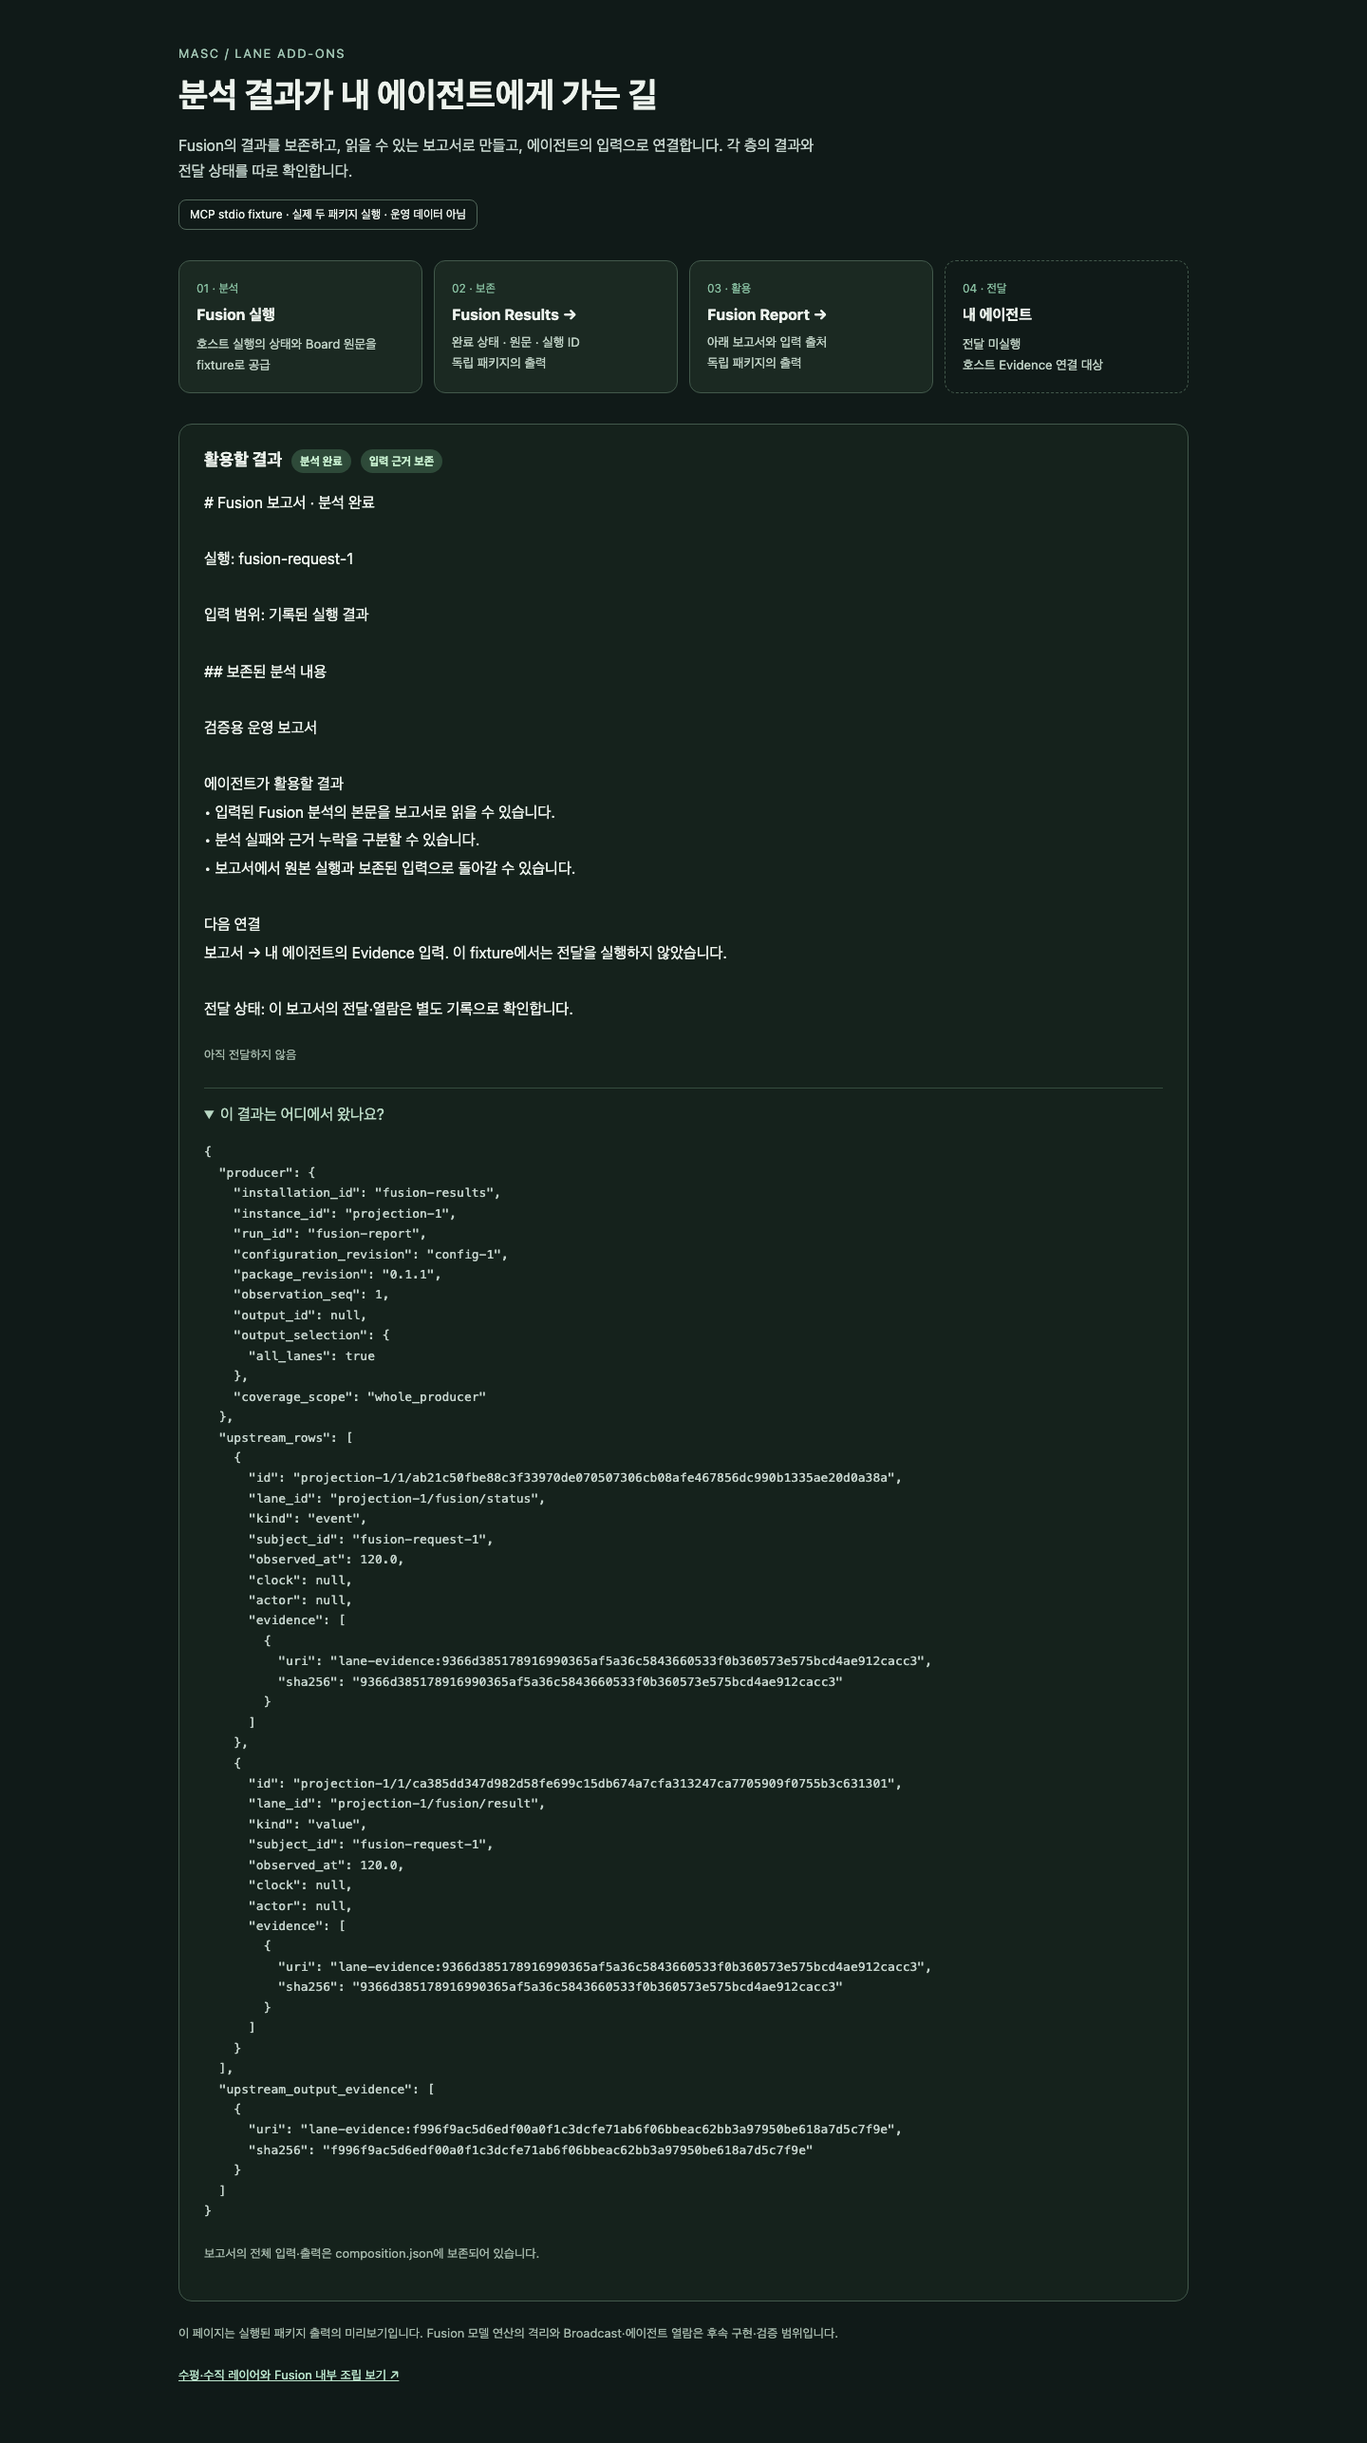
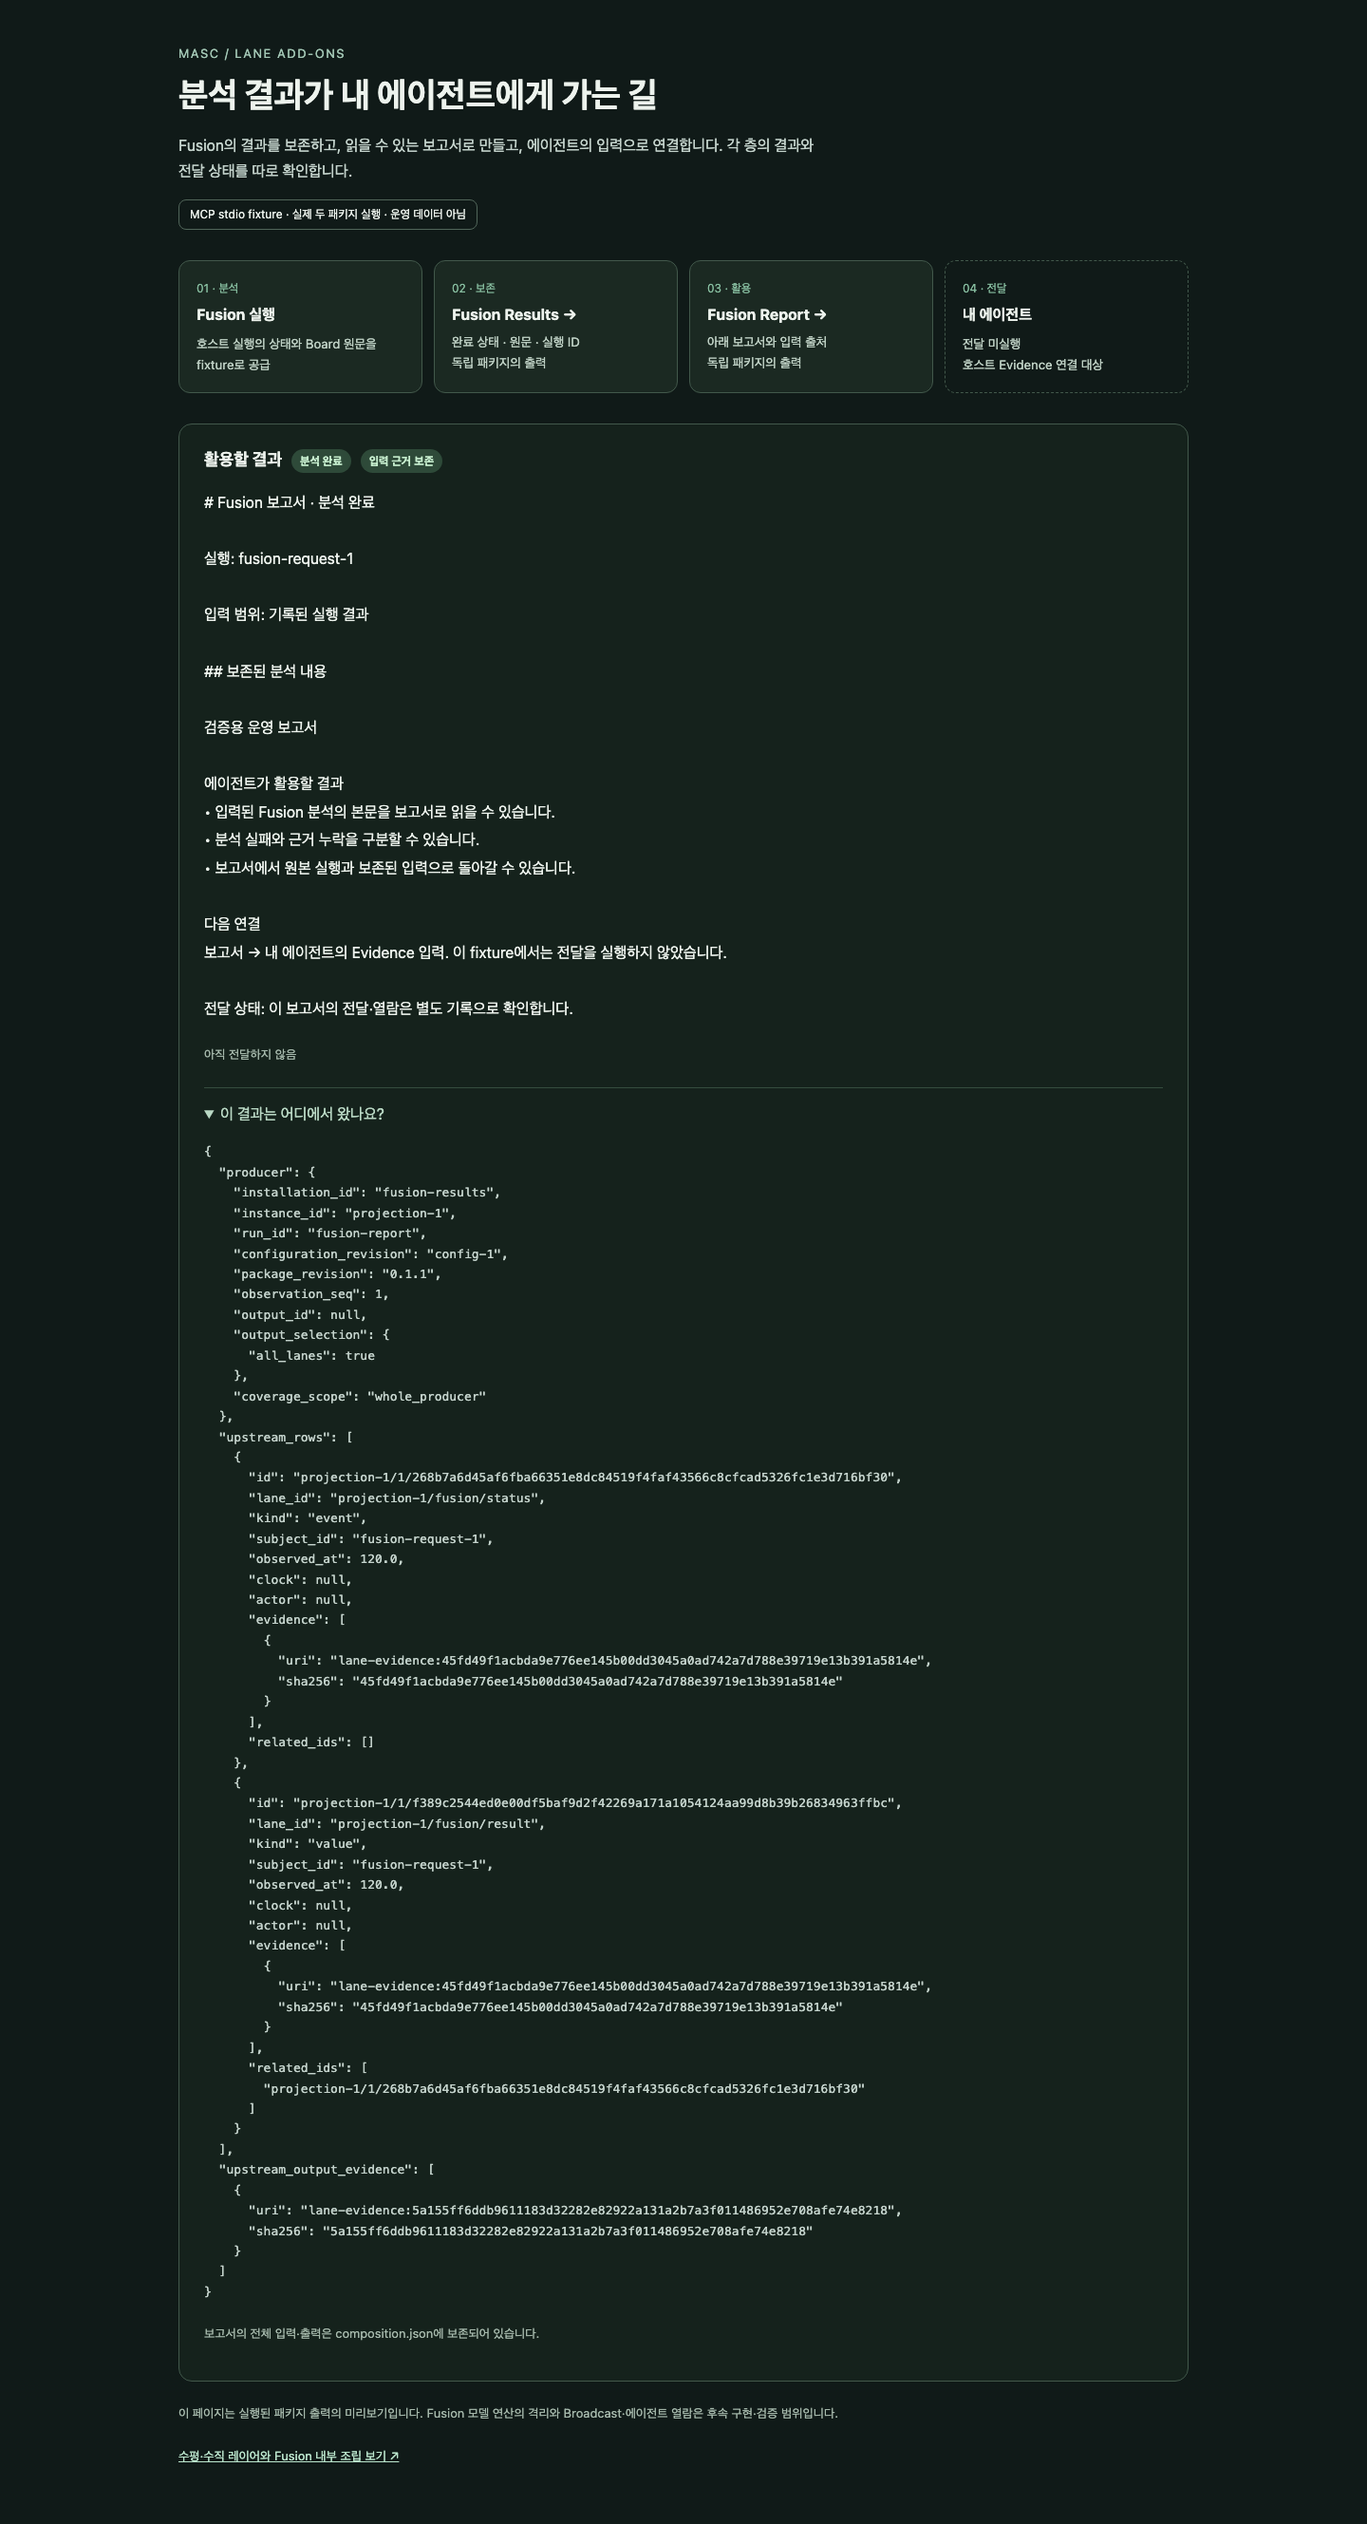
fix(fusion): validate report relations and regenerate preview evidence

diff --git a/docs/design/fusion-report-preview.html b/docs/design/fusion-report-preview.html
@@ -61,7 +61,7 @@ details{margin-top:24px;border-top:1px solid #354c3e;padding-top:18px}summary{cu
   },
   &quot;upstream_rows&quot;: [
     {
-      &quot;id&quot;: &quot;projection-1/1/ab21c50fbe88c3f33970de070507306cb08afe467856dc990b1335ae20d0a38a&quot;,
+      &quot;id&quot;: &quot;projection-1/1/268b7a6d45af6fba66351e8dc84519f4faf43566c8cfcad5326fc1e3d716bf30&quot;,
       &quot;lane_id&quot;: &quot;projection-1/fusion/status&quot;,
       &quot;kind&quot;: &quot;event&quot;,
       &quot;subject_id&quot;: &quot;fusion-request-1&quot;,
@@ -70,13 +70,14 @@ details{margin-top:24px;border-top:1px solid #354c3e;padding-top:18px}summary{cu
       &quot;actor&quot;: null,
       &quot;evidence&quot;: [
         {
-          &quot;uri&quot;: &quot;lane-evidence:9366d385178916990365af5a36c5843660533f0b360573e575bcd4ae912cacc3&quot;,
-          &quot;sha256&quot;: &quot;9366d385178916990365af5a36c5843660533f0b360573e575bcd4ae912cacc3&quot;
+          &quot;uri&quot;: &quot;lane-evidence:45fd49f1acbda9e776ee145b00dd3045a0ad742a7d788e39719e13b391a5814e&quot;,
+          &quot;sha256&quot;: &quot;45fd49f1acbda9e776ee145b00dd3045a0ad742a7d788e39719e13b391a5814e&quot;
         }
-      ]
+      ],
+      &quot;related_ids&quot;: []
     },
     {
-      &quot;id&quot;: &quot;projection-1/1/ca385dd347d982d58fe699c15db674a7cfa313247ca7705909f0755b3c631301&quot;,
+      &quot;id&quot;: &quot;projection-1/1/f389c2544ed0e00df5baf9d2f42269a171a1054124aa99d8b39b26834963ffbc&quot;,
       &quot;lane_id&quot;: &quot;projection-1/fusion/result&quot;,
       &quot;kind&quot;: &quot;value&quot;,
       &quot;subject_id&quot;: &quot;fusion-request-1&quot;,
@@ -85,16 +86,19 @@ details{margin-top:24px;border-top:1px solid #354c3e;padding-top:18px}summary{cu
       &quot;actor&quot;: null,
       &quot;evidence&quot;: [
         {
-          &quot;uri&quot;: &quot;lane-evidence:9366d385178916990365af5a36c5843660533f0b360573e575bcd4ae912cacc3&quot;,
-          &quot;sha256&quot;: &quot;9366d385178916990365af5a36c5843660533f0b360573e575bcd4ae912cacc3&quot;
+          &quot;uri&quot;: &quot;lane-evidence:45fd49f1acbda9e776ee145b00dd3045a0ad742a7d788e39719e13b391a5814e&quot;,
+          &quot;sha256&quot;: &quot;45fd49f1acbda9e776ee145b00dd3045a0ad742a7d788e39719e13b391a5814e&quot;
         }
+      ],
+      &quot;related_ids&quot;: [
+        &quot;projection-1/1/268b7a6d45af6fba66351e8dc84519f4faf43566c8cfcad5326fc1e3d716bf30&quot;
       ]
     }
   ],
   &quot;upstream_output_evidence&quot;: [
     {
-      &quot;uri&quot;: &quot;lane-evidence:f996f9ac5d6edf00a0f1c3dcfe71ab6f06bbeac62bb3a97950be618a7d5c7f9e&quot;,
-      &quot;sha256&quot;: &quot;f996f9ac5d6edf00a0f1c3dcfe71ab6f06bbeac62bb3a97950be618a7d5c7f9e&quot;
+      &quot;uri&quot;: &quot;lane-evidence:5a155ff6ddb9611183d32282e82922a131a2b7a3f011486952e708afe74e8218&quot;,
+      &quot;sha256&quot;: &quot;5a155ff6ddb9611183d32282e82922a131a2b7a3f011486952e708afe74e8218&quot;
     }
   ]
 }</pre><p class="note">보고서의 전체 입력·출력은 composition.json에 보존되어 있습니다.</p></details></section>

diff --git a/scripts/fusion-report-preview-browser.py b/scripts/fusion-report-preview-browser.py
@@ -1,0 +1,53 @@
+"""Render the regenerated stdio fixture; requires Playwright and Chromium."""
+import hashlib
+import json
+from pathlib import Path
+
+from playwright.sync_api import sync_playwright
+
+
+def sha256(path):
+    return hashlib.sha256(path.read_bytes()).hexdigest()
+
+
+repo = Path(__file__).resolve().parents[1]
+directory = repo / "docs/evidence/fusion-report-20260930"
+composition = directory / "composition.json"
+preview = repo / "docs/design/fusion-report-preview.html"
+capture = json.loads(composition.read_text())
+report = next(row for row in capture["report_output"]["rows"] if row["lane_id"] == "fusion/report")
+context = next(row for row in capture["report_output"]["rows"] if row["id"] in report["related_ids"])
+lineage = {"producer": context["fields"]["producer"],
+           "upstream_rows": context["fields"]["upstream_rows"],
+           "upstream_output_evidence": context["evidence"]}
+checks = []
+with sync_playwright() as playwright:
+    browser = playwright.chromium.launch(headless=True)
+    try:
+        for name, width, height, filename in (
+                ("desktop", 1440, 1100, "preview.png"),
+                ("mobile", 390, 844, "preview-mobile.png")):
+            page = browser.new_page(viewport={"width": width, "height": height}, device_scale_factor=1)
+            page.goto(preview.as_uri())
+            body_matches = page.locator("#report-body").text_content() == report["fields"]["body"]
+            delivery_matches = page.locator("#delivery-state").text_content() == report["fields"]["delivery_label"]
+            page.locator("details summary").click()
+            expanded = page.locator("details").evaluate("element => element.open")
+            lineage_matches = json.loads(page.locator("#report-lineage").text_content()) == lineage
+            overflow = page.evaluate("document.documentElement.scrollWidth > window.innerWidth")
+            if not body_matches or not delivery_matches or not expanded or not lineage_matches or overflow:
+                raise RuntimeError(f"{name} preview does not match its current worker output")
+            screenshot = directory / filename
+            page.screenshot(path=str(screenshot), full_page=True)
+            page.close()
+            checks.append({"viewport": name, "width": width, "height": height,
+                           "horizontal_overflow": overflow, "lineage_expanded": expanded,
+                           "lineage_matches_worker": lineage_matches,
+                           "body_matches_worker": body_matches, "delivery_matches_worker": delivery_matches,
+                           "screenshot": filename, "sha256": sha256(screenshot)})
+    finally:
+        browser.close()
+receipt = {"provenance": "Headless Chromium rendered final MCP stdio fixture output; not native host or production",
+           "preview_sha256": sha256(preview), "composition_sha256": sha256(composition), "checks": checks}
+(directory / "preview-checks.json").write_text(json.dumps(receipt, indent=2) + "\n")
+print("Two browser viewports match regenerated worker body, delivery label and exact lineage")

diff --git a/addons/tests/test_fusion_report.py b/addons/tests/test_fusion_report.py
@@ -70,6 +70,27 @@ def contexts(output):
 
 
 class FusionReport(unittest.TestCase):
+    def test_result_relation_identifies_paired_status(self):
+        captured = upstream(project(detail()))
+        for relation in (None, [], ["projection-1/1/other"], ["one", "two"]):
+            with self.subTest(relation=relation):
+                invalid = copy.deepcopy(captured)
+                invalid["observations"][0]["output"]["rows"][1]["related_ids"] = relation
+                self.assertTrue(call("fusion-report", [invalid])["isError"])
+
+    def test_recognized_rows_require_matching_upstream_coverage(self):
+        captured = upstream(project(detail()))
+        for field in ("source_id", "incarnation"):
+            with self.subTest(field=field):
+                invalid = copy.deepcopy(captured)
+                invalid["observations"][0]["output"]["coverage"][0][field] = "unrelated"
+                self.assertTrue(call("fusion-report", [invalid])["isError"])
+        incomplete = copy.deepcopy(captured)
+        incomplete["observations"][0]["output"]["coverage"][0]["complete"] = False
+        result = call("fusion-report", [incomplete])["structuredContent"]
+        self.assertFalse(result["coverage"][0]["complete"])
+        self.assertTrue(all(not row["fields"]["input_complete"] for row in reports(result)))
+
     def test_report_rejects_conflicting_or_missing_fusion_producer(self):
         original = upstream(project(detail()))
         for change in ("other-owner", "missing-origin-owner", "missing-run-owner"):
@@ -120,7 +141,7 @@ class FusionReport(unittest.TestCase):
         upstream_rows = captured["observations"][0]["output"]["rows"]
         self.assertEqual([r["id"] for r in context["fields"]["upstream_rows"]], [r["id"] for r in upstream_rows])
         self.assertEqual(context["fields"]["upstream_rows"], [{key: r[key] for key in (
-            "id", "lane_id", "kind", "subject_id", "observed_at", "clock", "actor", "evidence")}
+            "id", "lane_id", "kind", "subject_id", "observed_at", "clock", "actor", "evidence", "related_ids")}
             for r in upstream_rows])
         self.assertEqual(context["fields"]["producer"], captured["observations"][0]["producer"])
         self.assertEqual(context["evidence"], captured["observations"][0]["evidence"])
@@ -345,7 +366,9 @@ class FusionReport(unittest.TestCase):
         second["run"]["run_id"] = "fusion-request-2"
         second["evidence"]["post"]["origin"]["fusion_run_id"] = "fusion-request-2"
         combined = copy.deepcopy(first)
-        combined["rows"].extend(project(second)["rows"])
+        second_output = project(second)
+        combined["rows"].extend(second_output["rows"])
+        combined["coverage"].extend(second_output["coverage"])
         report = call("fusion-report", [upstream(combined)])["structuredContent"]
         self.assertEqual([r["subject_id"] for r in reports(report)], [RUN, "fusion-request-2"])
         self.assertEqual(len({r["id"] for r in reports(report)}), 2)

diff --git a/addons/fusion-report/server.py b/addons/fusion-report/server.py
@@ -86,8 +86,13 @@ def row_coordinates(original):
         string(clock.get("domain"), "row.clock.domain")
         string(clock.get("value"), "row.clock.value")
     evidence(original.get("evidence"))
+    related = original.get("related_ids")
+    if not isinstance(related, list):
+        raise InvalidInput("row.related_ids must be an array")
+    for identity in related:
+        string(identity, "row.related_ids entry")
     return {key: original[key] for key in (
-        "id", "lane_id", "kind", "subject_id", "observed_at", "clock", "actor", "evidence")}
+        "id", "lane_id", "kind", "subject_id", "observed_at", "clock", "actor", "evidence", "related_ids")}
 
 
 def reports(source: Source, observation: dict, *, recognized: bool):
@@ -131,6 +136,11 @@ def reports(source: Source, observation: dict, *, recognized: bool):
         string(original.get("id"), "row.id")
         row_coordinates(original)
         fields = object_value(original.get("fields"), "row.fields")
+        source_id = string(fields.get("source_id"), "row.fields.source_id")
+        incarnation = string(fields.get("incarnation"), "row.fields.incarnation")
+        if not any(item["source_id"] == source_id and item["incarnation"] == incarnation
+                   for item in upstream_coverage):
+            raise InvalidInput("Fusion row has no matching upstream source coverage")
         boolean(fields.get("input_complete"), "row.input_complete")
         if lane == "fusion/status":
             run = object_value(fields.get("fusion_run"), "fusion_run")
@@ -141,6 +151,8 @@ def reports(source: Source, observation: dict, *, recognized: bool):
                 string(run.get("failure_code"), "fusion_run.failure_code")
                 string(run.get("error"), "fusion_run.error")
         else:
+            if len(original["related_ids"]) != 1:
+                raise InvalidInput("Fusion result must identify its status row")
             run_id = string(fields.get("fusion_run_id"), "fusion_run_id")
             status = run_state(fields.get("run_status"))
             post = object_value(fields.get("board_post"), "board_post")
@@ -178,6 +190,8 @@ def reports(source: Source, observation: dict, *, recognized: bool):
         post = result_row[0]["fields"]["board_post"] if result_row else None
         if status_row and result_row:
             status_fields = status_row[0]["fields"]
+            if result_row[0]["related_ids"] != [status_row[0]["id"]]:
+                raise InvalidInput("Fusion result relation does not identify its paired status row")
             if (status_fields.get("evidence_status") != "recorded"
                     or status_fields.get("board_post_id") != post["id"]
                     or status_fields["fusion_run"]["keeper"] != post["origin"]["fusion_producer"]):

diff --git a/changelog.d/40201.md b/changelog.d/40201.md
@@ -4,6 +4,8 @@
 
 ### Fixed
 
+- Validate paired status/result relations and upstream source coverage before completing Fusion reports; regenerate preview evidence from the final workers and provide its browser capture command (#40201).
+
 - Reject contradictory Board evidence, retain shared input provenance once with linked report rows, keep complete analysis bodies within the declared reply envelope, and regenerate fixture previews from the final workers (#40201).
 
 - Give Fusion reports an 8 MiB reply allocation so a complete 4 MiB producer result remains readable with Markdown and retained provenance; keep explicit oversize refusals and verify actual producer admission at the boundary (#40201).

diff --git a/docs/design/fusion-lane-composition.md b/docs/design/fusion-lane-composition.md
@@ -119,6 +119,8 @@ The final serialized reply must fit the package manifest's resource envelope;
 an oversized reply is refused without truncating analysis or accepting a report.
 
 Regenerate the fixture composition and preview with
-`python3 scripts/fusion-report-preview.py`. Browser receipts in
+`python3 scripts/fusion-report-preview.py`, then regenerate browser screenshots
+and receipts with `python3 scripts/fusion-report-preview-browser.py` (requires
+Playwright and its Chromium browser). Browser receipts in
 `docs/evidence/fusion-report-20260930/preview-checks.json` identify the exact HTML
 and composition hashes, delivery label, lineage interaction and screenshots.
